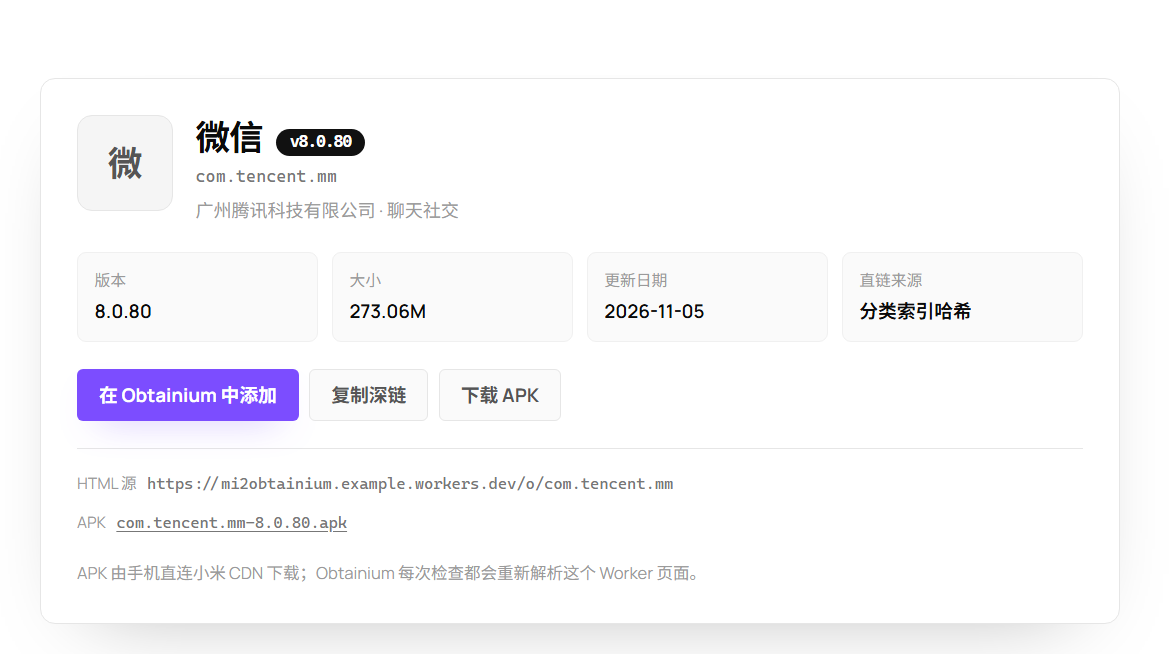
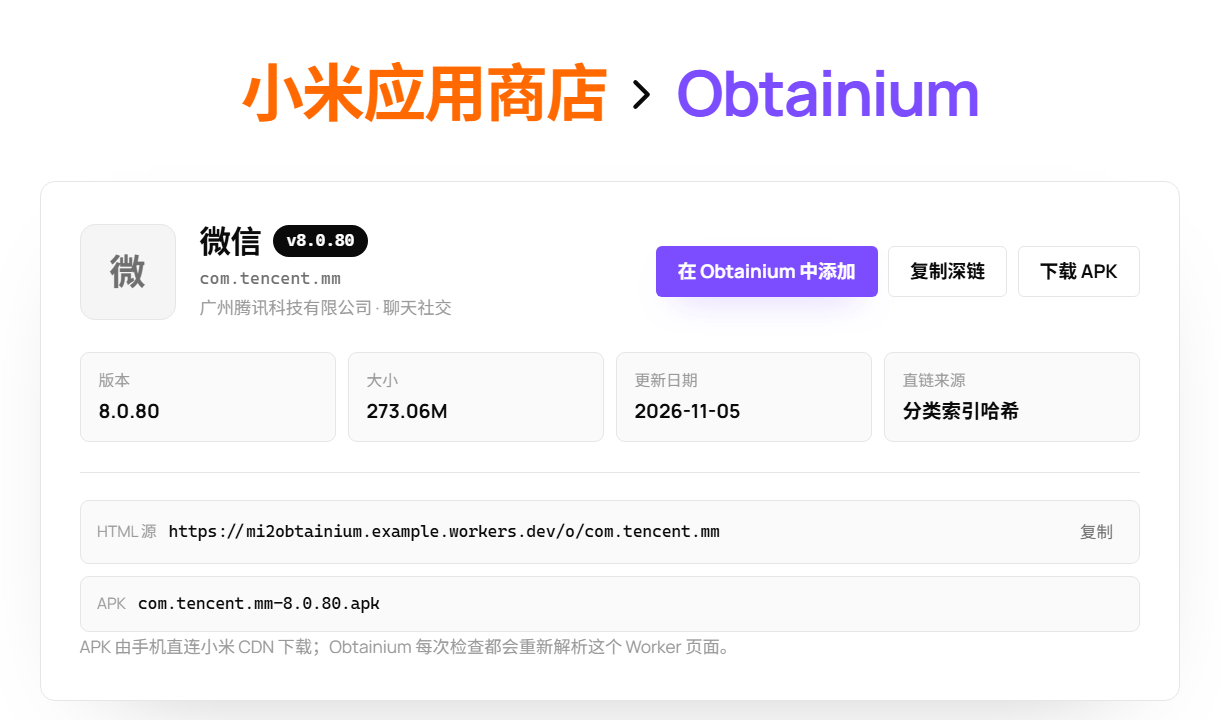
Use shared styles for Worker result page

diff --git a/worker/index.js b/worker/index.js
@@ -324,7 +324,7 @@ function renderPage(app, origin) {
     if (theme !== 'light' && theme !== 'dark') theme = matchMedia('(prefers-color-scheme: dark)').matches ? 'dark' : 'light';
     document.documentElement.dataset.theme = theme;
     var favicon = document.getElementById('favicon');
-    if (favicon) favicon.href = theme === 'dark' ? '${PAGES_BASE}/favicon.svg?v=5' : '${PAGES_BASE}/favicon-light.svg?v=3';
+    if (favicon) favicon.href = theme === 'dark' ? '${PAGES_BASE}/favicon.svg?v=18' : '${PAGES_BASE}/favicon-light.svg?v=3';
     var lang = localStorage.getItem('mi-lang');
     if (lang !== 'zh-Hans' && lang !== 'zh-Hant' && lang !== 'en') {
       lang = 'zh-Hans';
@@ -340,59 +340,9 @@ function renderPage(app, origin) {
   } catch (error) {}
 })();
 </script>
-<style>
-@import url('${PAGES_BASE}/fonts/manrope/Manrope.css');
-@import url('${PAGES_BASE}/fonts/noto-sans-sc/NotoSansSC.css');
-@font-face{font-family:'Google Sans';font-style:normal;font-weight:400 700;font-display:swap;src:url('${PAGES_BASE}/fonts/GoogleSans-var.woff2') format('woff2')}
-:root{color-scheme:light;--bg:#fff;--text:#0a0a0a;--muted:#777;--muted2:#9a9a9a;--line:#e6e6e6;--soft:#f5f5f5;--soft2:#fafafa;--xiaomi:#ff6900;--obtainium:#7c4dff;--font:"Manrope","Noto Sans SC","Google Sans","Microsoft YaHei","PingFang SC",system-ui,sans-serif}
-:root[data-theme="dark"]{color-scheme:dark;--bg:#0f0f10;--text:#f3f3f1;--muted:#a5a5a0;--muted2:#777773;--line:#2b2b2e;--soft:#1a1a1c;--soft2:#141416}
-*{box-sizing:border-box}body{margin:0;padding:34px 18px 60px;background:var(--bg);color:var(--text);font-family:var(--font);-webkit-font-smoothing:antialiased;font-size:15px;line-height:1.6;transition:background-color .18s ease,color .18s ease}
-a{color:inherit;text-decoration:none}.wrap{width:min(720px,100%);margin:0 auto}
-.top-controls{position:absolute;top:17px;right:20px;z-index:40;display:flex;align-items:center;gap:8px}.lang-switch{display:flex;align-items:center;height:27px;padding:2px;border:1px solid var(--line);border-radius:6px;background:var(--soft)}.lang-switch button{height:100%;border:0;border-radius:4px;display:flex;align-items:center;justify-content:center;background:transparent;color:var(--muted);padding:0 8px;font-size:11px;line-height:1;font-family:var(--font);cursor:pointer}.lang-switch button:hover{color:var(--text)}.lang-switch button[aria-pressed="true"]{background:var(--bg);color:var(--text);box-shadow:0 1px 4px rgba(0,0,0,.1)}.theme-toggle{width:27px;height:27px;padding:0;border:1px solid var(--line);border-radius:4px;display:grid;place-items:center;background:var(--bg);color:var(--text);cursor:pointer}.theme-toggle:hover{background:var(--soft);border-color:var(--muted2)}.theme-toggle svg{width:15px;height:15px;display:block}.theme-toggle .icon-moon{display:none}:root[data-theme="dark"] .theme-toggle .icon-sun{display:none}:root[data-theme="dark"] .theme-toggle .icon-moon{display:block}
-.top{display:flex;align-items:center;justify-content:space-between;gap:12px;margin-bottom:34px;color:var(--muted);font-size:12px}
-.top a{color:var(--muted)}.top a:hover{color:var(--text)}.top span{color:var(--muted2)}
-.brand{display:flex;align-items:center;gap:9px;font-weight:700;color:var(--text);font-size:14px;letter-spacing:-.2px}
-.brand-xiaomi{color:var(--xiaomi)}.brand-obtainium{color:var(--obtainium)}.brand-sep{color:var(--muted2);font-weight:400}
-.mark{width:28px;height:28px;border-radius:9px;background:#111;color:#fff;display:grid;place-items:center;font-size:13px;font-weight:700}
-.card{background:#fff;border:1px solid var(--line);border-radius:10px;padding:24px;box-shadow:0 20px 55px -34px rgba(0,0,0,.35)}
-.head{display:flex;align-items:flex-start;gap:15px}
-.icon{position:relative;width:64px;height:64px;flex:0 0 auto;border-radius:10px;overflow:hidden;background:#f5f5f5;border:1px solid var(--line);display:grid;place-items:center;font-size:23px;font-weight:700;color:#555}
-.icon img{position:absolute;inset:0;width:100%;height:100%;object-fit:cover}
-.title{min-width:0;flex:1}.title h1{margin:0;font-size:23px;line-height:1.25;letter-spacing:-.6px;overflow-wrap:anywhere}
-.badge{display:inline-block;margin-left:5px;padding:2px 9px;border-radius:999px;background:#111;color:#fff;font-family:"Cascadia Code",Consolas,monospace;font-size:11px;font-weight:700;vertical-align:2px}
-.pkg{margin:3px 0 0;font-family:"Cascadia Code",Consolas,monospace;font-size:11.5px;color:var(--muted);word-break:break-all}
-.byline{margin:4px 0 0;font-size:12px;color:var(--muted2)}
-.actions{display:flex;flex-wrap:wrap;gap:7px;margin-top:18px}
-.btn{display:inline-flex;align-items:center;justify-content:center;border:1px solid transparent;border-radius:4px;padding:9px 14px;font-size:12.5px;font-weight:700;line-height:1.2;cursor:pointer;white-space:nowrap;font-family:var(--font)}
-.btn.primary{background:#111;color:#fff;box-shadow:0 10px 20px -12px rgba(0,0,0,.4)}.btn.obtainium{background:var(--obtainium);color:#fff;box-shadow:0 10px 24px -14px rgba(124,77,255,.7)}.btn.obtainium:hover{background:#6a3fe8}
-.btn.ghost{background:#fafafa;border-color:var(--line);color:#555}
-.meta{display:grid;grid-template-columns:repeat(4,minmax(0,1fr));gap:9px;margin-top:18px}
-.meta div{padding:10px 11px;border-radius:6px;background:#fafafa;border:1px solid #f0f0f0;min-width:0}
-.meta span{display:block;color:var(--muted2);font-size:10.5px}.meta strong{display:block;margin-top:2px;font-size:12.5px;font-weight:600;white-space:nowrap;overflow:hidden;text-overflow:ellipsis}
-.source{margin-top:18px;padding-top:15px;border-top:1px solid var(--line);display:flex;align-items:center;gap:7px;min-width:0}
-.source span{flex:0 0 auto;color:var(--muted2);font-size:10.5px}.source code{flex:1;min-width:0;font-family:"Cascadia Code",Consolas,monospace;font-size:10.5px;color:var(--muted);overflow-x:auto;overflow-y:hidden;text-overflow:clip;white-space:nowrap;scrollbar-width:thin;-webkit-overflow-scrolling:touch}
-.apk-line{display:flex;align-items:center;gap:7px;margin-top:9px;min-width:0}.apk-line span{flex:0 0 auto;color:var(--muted2);font-size:10.5px}
-.apk-line .apk{flex:1;min-width:0;font-family:"Cascadia Code",Consolas,monospace;font-size:10.5px;color:var(--muted);overflow:hidden;text-overflow:ellipsis;white-space:nowrap;text-decoration:underline;text-underline-offset:2px}
-.hint{margin:16px 0 0;color:var(--muted2);font-size:11px;line-height:1.7}
-.foot{margin-top:22px;display:flex;align-items:center;justify-content:center;gap:8px;color:var(--muted2);font-size:10.5px;line-height:1.7}
-.foot-link{border:0;background:transparent;color:inherit;padding:0;font:inherit;line-height:inherit;text-decoration:none;cursor:pointer}
-.foot-link:hover{color:var(--text)}
-@media(max-width:560px){body{padding:48px 13px 50px}.card{padding:18px;border-radius:10px}.head{gap:11px}.icon{width:56px;height:56px;border-radius:9px}.title h1{font-size:20px}.meta{grid-template-columns:repeat(2,minmax(0,1fr))}.top{margin-bottom:24px}.actions .btn.primary{flex:1}}
-@media(max-width:720px){.top-controls{top:12px;right:14px;gap:6px}.lang-switch{height:25px}.lang-switch button{padding:0 7px;font-size:10.5px}.theme-toggle{width:25px;height:25px}}
-@media(max-width:380px){.lang-switch button{padding:0 6px;font-size:10px}}
-:root[data-theme="dark"] .card{background:#141416;border-color:var(--line);box-shadow:0 20px 55px -34px rgba(0,0,0,.9)}
-:root[data-theme="dark"] .mark{background:var(--text);color:var(--bg)}
-:root[data-theme="dark"] .icon{background:var(--soft);border-color:var(--line)}
-:root[data-theme="dark"] .badge{background:var(--text);color:var(--bg)}
-:root[data-theme="dark"] .btn.primary{background:var(--text);color:var(--bg);box-shadow:0 10px 20px -12px rgba(0,0,0,.8)}
-:root[data-theme="dark"] .btn.ghost{background:var(--soft2);border-color:var(--line);color:var(--muted)}
-:root[data-theme="dark"] .meta div{background:var(--soft2);border-color:var(--line)}
-:root[data-theme="dark"] .source{border-top-color:var(--line)}
-:root[data-theme="dark"] .top-controls{color:var(--text)}
-@media(prefers-reduced-motion:reduce){*,*::before,*::after{animation:none!important;transition:none!important}}
-</style>
+<link rel="stylesheet" href="${PAGES_BASE}/styles.css?v=29">
 </head>
-<body data-app-type="${escapeHtml(app.targetType)}">
+<body class="search-active" data-app-type="${escapeHtml(app.targetType)}">
 <div class="top-controls">
   <div class="lang-switch" role="group" aria-label="语言 / Language">
     <button type="button" data-lang="zh-Hans" aria-pressed="true">简中</button>
@@ -404,41 +354,57 @@ a{color:inherit;text-decoration:none}.wrap{width:min(720px,100%);margin:0 auto}
     <svg class="icon-moon" viewBox="0 0 24 24" fill="none" stroke="currentColor" stroke-width="1.8" stroke-linecap="round" stroke-linejoin="round" aria-hidden="true"><path d="M20.4 14.2A8.5 8.5 0 0 1 9.8 3.6 8.5 8.5 0 1 0 20.4 14.2Z"></path></svg>
   </button>
 </div>
-<main class="wrap">
-  <header class="top">
-    <a class="brand" href="${PAGES_BASE}/"><span class="mark">米</span> <span class="brand-xiaomi" id="storeTitle">小米应用商店</span> <span class="brand-sep">›</span> <span class="brand-obtainium">Obtainium</span></a>
-    <span id="serviceLabel">Cloudflare Worker</span>
+
+<main class="page">
+  <header class="masthead">
+    <h1><a href="${PAGES_BASE}/"><span class="title-xiaomi" id="storeTitle">小米应用商店</span><span class="title-arrow" aria-hidden="true"><svg viewBox="0 0 24 24" fill="none" stroke="currentColor" stroke-width="2.1" stroke-linecap="round" stroke-linejoin="round"><path d="m9 6 6 6-6 6"></path></svg></span><span class="title-obtainium">Obtainium</span></a></h1>
   </header>
 
-  <article class="card">
-    <div class="head">
-      <span class="icon">${escapeHtml(letter)}${icon ? `<img src="${escapeHtml(icon)}" alt="" onerror="this.remove()">` : ''}</span>
-      <div class="title">
-        <h1>${escapeHtml(app.name)} <span class="badge">v${escapeHtml(app.version)}</span></h1>
+  <section class="result">
+    <div class="result-head">
+      <span class="app-icon-wrap">
+        <span class="app-letter">${escapeHtml(letter)}</span>
+        ${icon ? `<img class="app-icon" src="${escapeHtml(icon)}" alt="" onerror="this.remove()">` : ''}
+      </span>
+      <div class="result-title">
+        <div class="title-line">
+          <h2>${escapeHtml(app.name)}</h2>
+          <span class="version-badge">v${escapeHtml(app.version)}</span>
+        </div>
         <p class="pkg">${escapeHtml(app.pkg)}</p>
         <p class="byline">${escapeHtml(app.author)}${app.category ? ` · ${escapeHtml(app.category)}` : ''}</p>
       </div>
+      <div class="result-actions">
+        <a class="btn obtainium" id="addBtn" href="${escapeHtml(deepLink)}" data-i18n="addObtainium">在 Obtainium 中添加</a>
+        <button class="btn ghost" id="copyDeep" type="button" data-deep="${escapeHtml(deepLink)}" data-i18n="copyDeep">复制深链</button>
+        <a class="btn ghost" id="downloadApk" href="${escapeHtml(app.targetUrl)}" target="_blank" rel="noreferrer" data-i18n="downloadApk">下载 APK</a>
+      </div>
     </div>
 
-    <div class="meta">
-      <div><span data-i18n="version">版本</span><strong>${escapeHtml(app.version)}</strong></div>
-      <div><span data-i18n="size">大小</span><strong id="sizeValue" data-empty="${app.sizeText ? '0' : '1'}">${escapeHtml(app.sizeText || '未知')}</strong></div>
-      <div><span data-i18n="updated">更新日期</span><strong id="updatedValue" data-empty="${app.updated ? '0' : '1'}">${escapeHtml(app.updated || '未知')}</strong></div>
-      <div><span data-i18n="sourceType">直链来源</span><strong id="sourceValue" data-type="${escapeHtml(app.targetType)}">${typeLabel}</strong></div>
+    <div class="meta-grid">
+      <div class="meta-item"><span data-i18n="version">版本</span><strong>${escapeHtml(app.version)}</strong></div>
+      <div class="meta-item"><span data-i18n="size">大小</span><strong id="sizeValue" data-empty="${app.sizeText ? '0' : '1'}">${escapeHtml(app.sizeText || '未知')}</strong></div>
+      <div class="meta-item"><span data-i18n="updated">更新日期</span><strong id="updatedValue" data-empty="${app.updated ? '0' : '1'}">${escapeHtml(app.updated || '未知')}</strong></div>
+      <div class="meta-item"><span data-i18n="sourceType">直链来源</span><strong id="sourceValue" data-type="${escapeHtml(app.targetType)}">${typeLabel}</strong></div>
     </div>
 
-    <div class="actions">
-      <a class="btn obtainium" id="addBtn" href="${escapeHtml(deepLink)}" data-i18n="addObtainium">在 Obtainium 中添加</a>
-      <button class="btn ghost" id="copyDeep" type="button" data-deep="${escapeHtml(deepLink)}" data-i18n="copyDeep">复制深链</button>
-      <a class="btn ghost" id="downloadApk" href="${escapeHtml(app.targetUrl)}" target="_blank" rel="noreferrer" data-i18n="downloadApk">下载 APK</a>
+    <div class="result-body no-qr">
+      <div class="result-main">
+        <div class="source-box">
+          <span class="label" data-i18n="htmlSource">HTML 源</span>
+          <code title="${escapeHtml(pageUrl)}" tabindex="0">${escapeHtml(pageUrl)}</code>
+          <button class="icon-btn" id="copySource" type="button" data-copy="${escapeHtml(pageUrl)}">复制</button>
+        </div>
+        <div class="source-box">
+          <span class="label">APK</span>
+          <code><a href="${escapeHtml(app.targetUrl)}">${escapeHtml(filename)}</a></code>
+        </div>
+        <p class="byline" id="hint">APK 由手机直连小米 CDN 下载；Obtainium 每次检查都会重新解析这个 Worker 页面。</p>
+      </div>
     </div>
+  </section>
 
-    <div class="source"><span data-i18n="htmlSource">HTML 源</span><code title="${escapeHtml(pageUrl)}" tabindex="0">${escapeHtml(pageUrl)}</code></div>
-    <div class="apk-line"><span class="source-label">APK</span><a class="apk" href="${escapeHtml(app.targetUrl)}">${escapeHtml(filename)}</a></div>
-    <p class="hint" id="hint">APK 由手机直连小米 CDN 下载；Obtainium 每次检查都会重新解析这个 Worker 页面。</p>
-  </article>
-
-  <footer class="foot">
+  <footer class="site-foot">
     <a class="foot-link" href="${PAGES_BASE}/#about">关于</a>
     <span aria-hidden="true">·</span>
     <a class="foot-link" href="${PAGES_BASE}/#how">原理</a>
@@ -498,7 +464,7 @@ a{color:inherit;text-decoration:none}.wrap{width:min(720px,100%);margin:0 auto}
     var meta = document.getElementById('themeColor');
     if (meta) meta.setAttribute('content', theme === 'dark' ? '#0f0f10' : '#ffffff');
     var favicon = document.getElementById('favicon');
-    if (favicon) favicon.href = theme === 'dark' ? '${PAGES_BASE}/favicon.svg?v=5' : '${PAGES_BASE}/favicon-light.svg?v=3';
+    if (favicon) favicon.href = theme === 'dark' ? '${PAGES_BASE}/favicon.svg?v=18' : '${PAGES_BASE}/favicon-light.svg?v=3';
     var button = document.getElementById('themeToggle');
     if (button) {
       var label = theme === 'dark' ? t('themeToLight') : t('themeToDark');
@@ -555,21 +521,34 @@ a{color:inherit;text-decoration:none}.wrap{width:min(720px,100%);margin:0 auto}
     });
   } catch (e) {}
 
+  async function copyText(text) {
+    try { await navigator.clipboard.writeText(text); return true; }
+    catch (e) {
+      var area = document.createElement('textarea');
+      area.value = text; area.style.position = 'fixed'; area.style.opacity = '0';
+      document.body.appendChild(area); area.select();
+      var ok = false;
+      try { ok = document.execCommand('copy'); } catch (error) {}
+      area.remove();
+      return ok;
+    }
+  }
+
   var button = document.getElementById('copyDeep');
   if (button) {
     button.addEventListener('click', async function () {
-      var text = button.getAttribute('data-deep') || '';
-      var ok = false;
-      try { await navigator.clipboard.writeText(text); ok = true; }
-      catch (e) {
-        var area = document.createElement('textarea');
-        area.value = text; area.style.position = 'fixed'; area.style.opacity = '0';
-        document.body.appendChild(area); area.select();
-        try { ok = document.execCommand('copy'); } catch (error) {}
-        area.remove();
-      }
+      var ok = await copyText(button.getAttribute('data-deep') || '');
       button.textContent = ok ? t('copied') : t('copyDeep');
       setTimeout(function () { button.textContent = t('copyDeep'); }, 1500);
+    });
+  }
+
+  var sourceButton = document.getElementById('copySource');
+  if (sourceButton) {
+    sourceButton.addEventListener('click', async function () {
+      var ok = await copyText(sourceButton.getAttribute('data-copy') || '');
+      sourceButton.textContent = ok ? t('copied') : '复制';
+      setTimeout(function () { sourceButton.textContent = '复制'; }, 1500);
     });
   }
 

diff --git a/public/styles.css b/public/styles.css
@@ -599,6 +599,9 @@ body.modal-open { overflow: hidden; }
   border-top: 1px solid var(--line);
 }
 
+.result-body.no-qr { grid-template-columns: minmax(0, 1fr); }
+.result-body.no-qr .source-box + .source-box { margin-top: 8px; }
+
 .result-main { min-width: 0; }
 
 .source-box {

diff --git a/public/index.html b/public/index.html
@@ -38,7 +38,7 @@
       } catch (error) { /* storage or matchMedia unavailable */ }
     })();
   </script>
-  <link rel="stylesheet" href="/styles.css?v=28">
+  <link rel="stylesheet" href="/styles.css?v=29">
 </head>
 <body>
   <div class="top-controls">
